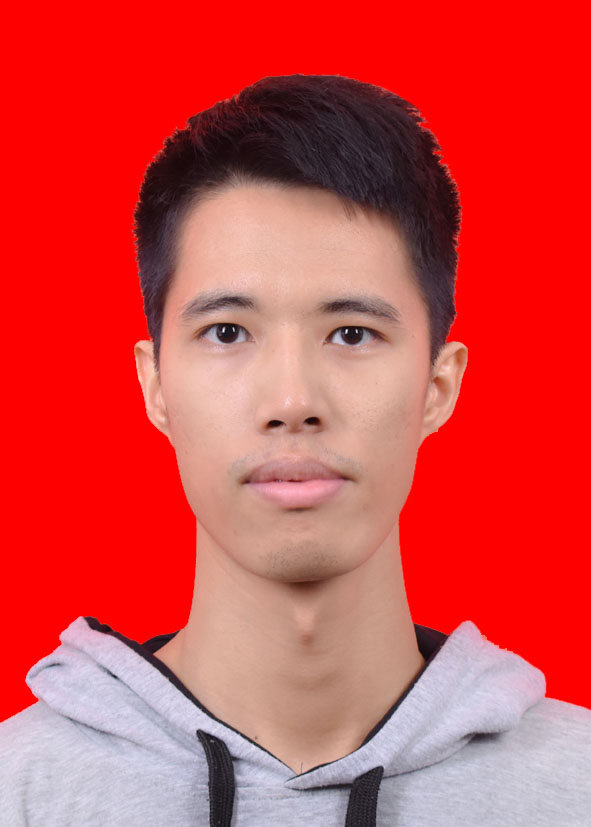
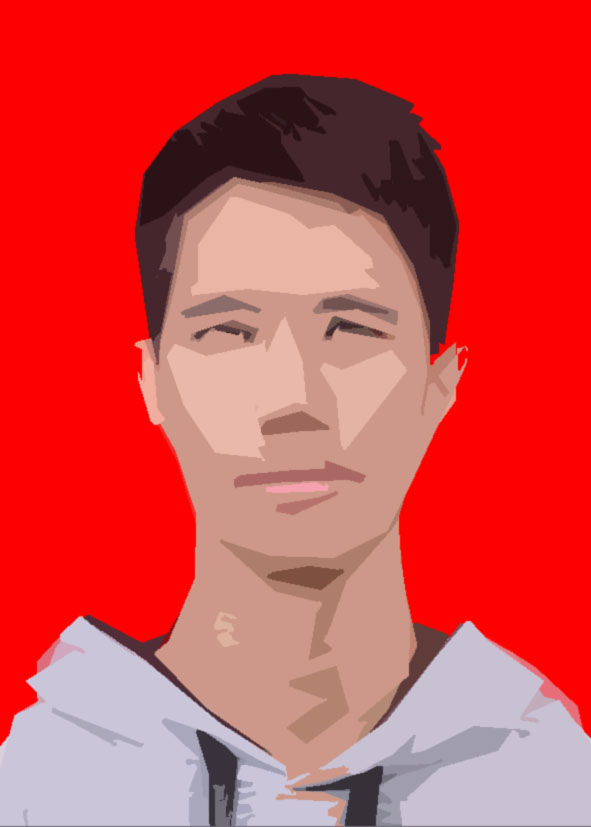
edit

diff --git a/index.html b/index.html
@@ -75,7 +75,7 @@
 			</div>
 		  -->
 			<div class="banner-image-w3layouts">
-				<img src="images/new.png" alt=" " class="img-responsive" />
+				<img src="images/new.jpg" alt=" " class="img-responsive" />
 			</div>
 	</div>
 <!-- //banner -->
